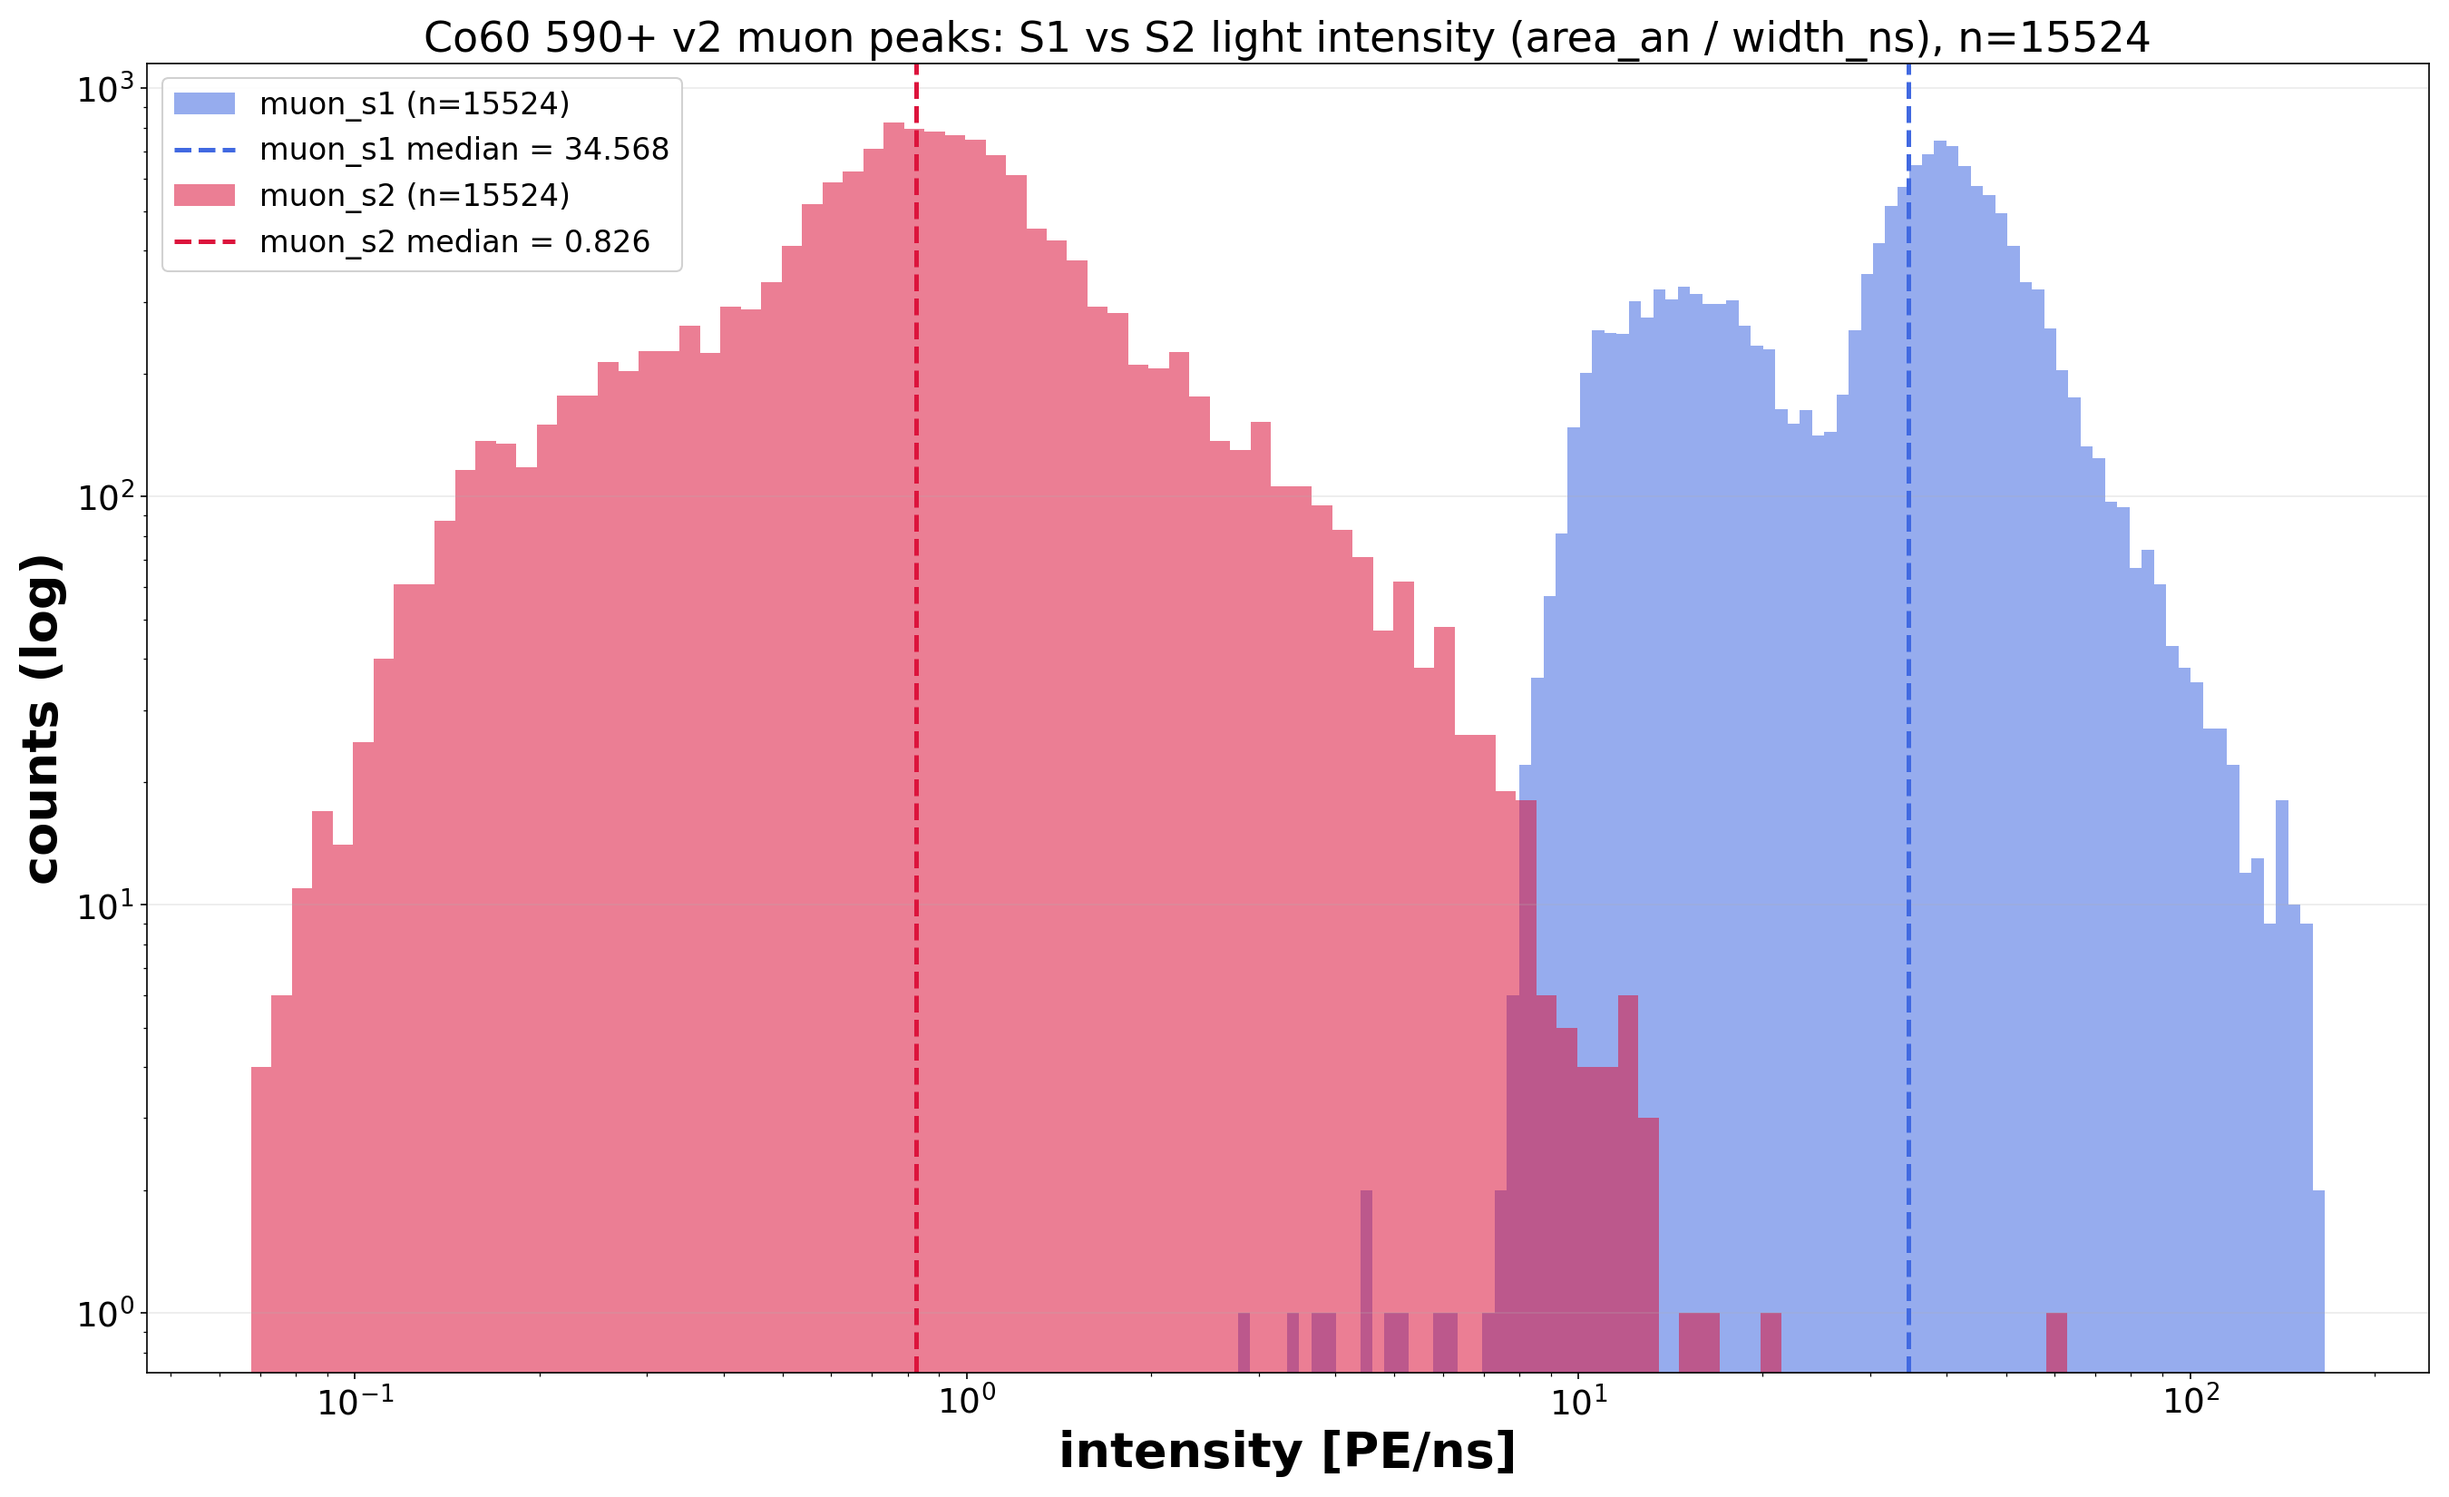
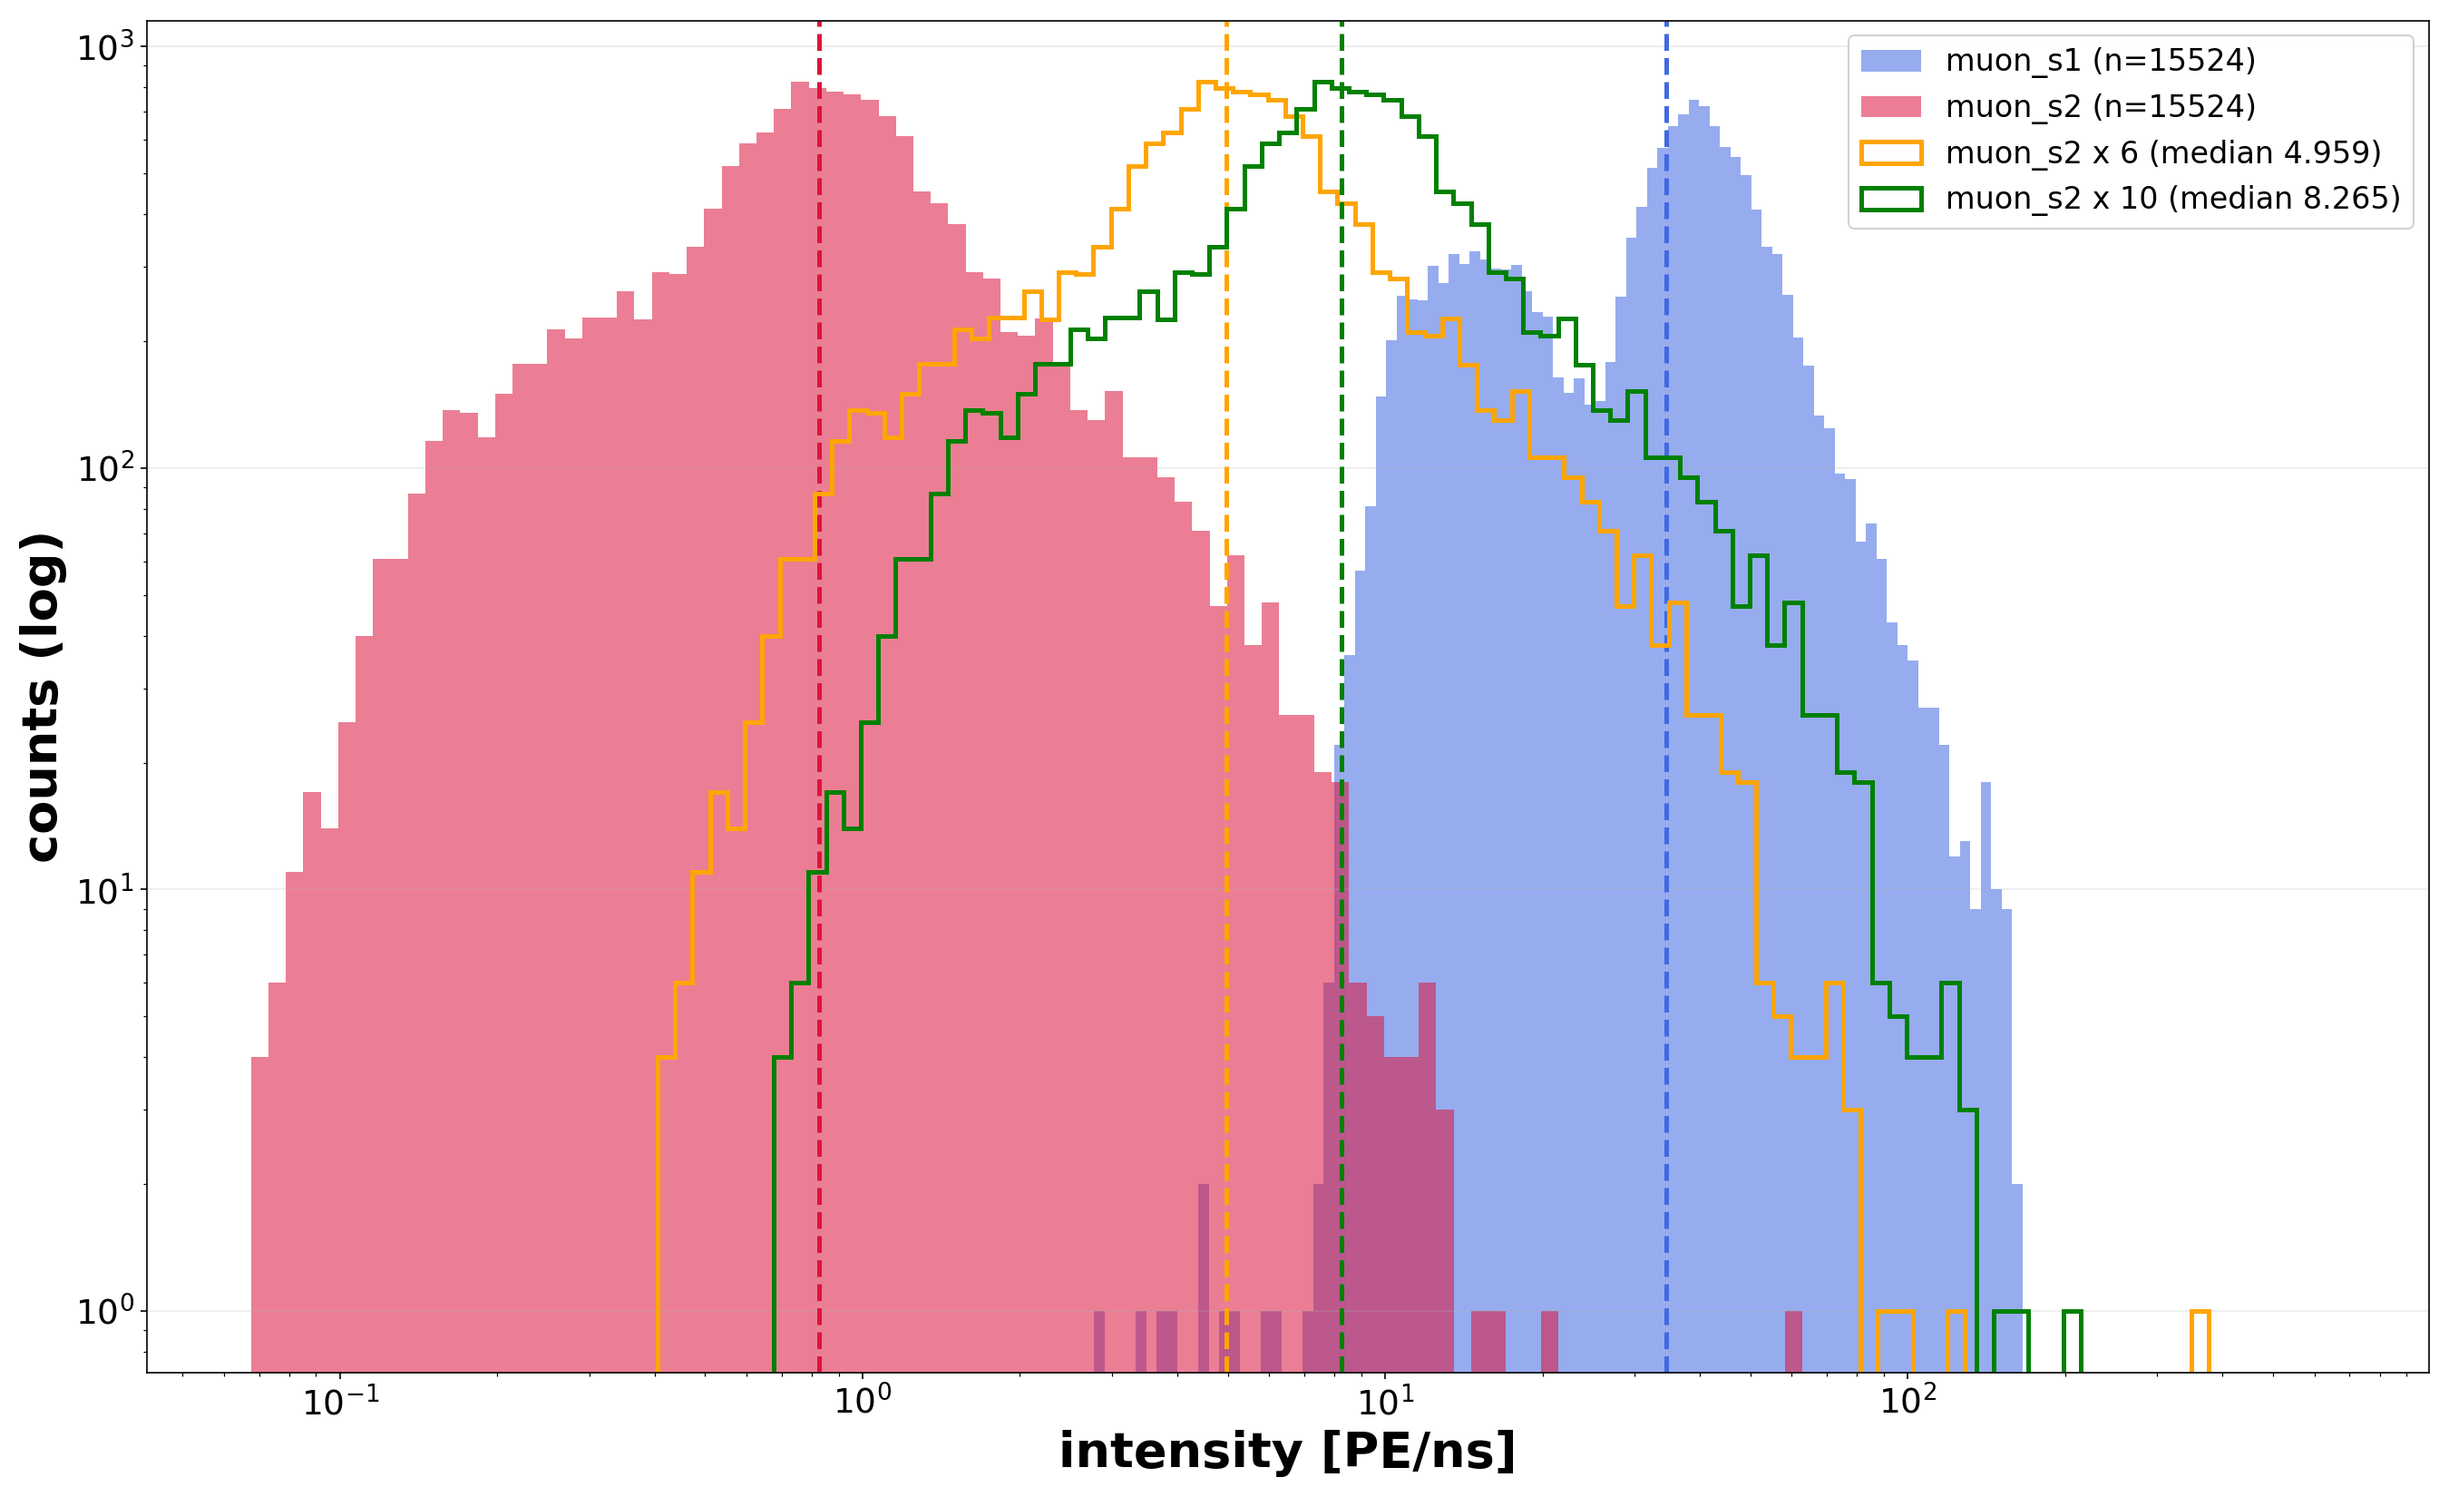
S1/S2 intensity: drop title; add step-curve muon_s2 x6 and x10 overlays

diff --git a/scripts/plot_muon_s1s2_params.py b/scripts/plot_muon_s1s2_params.py
@@ -121,19 +121,29 @@ intensity = [
     ("muon_s2", "muon_s2_area_an", "muon_s2_width_ns", "crimson"),
 ]
 fig, ax = plt.subplots(figsize=(18, 11))
-for lbl, ac, wc, color in intensity:
-    v = (m[ac] / m[wc]).replace([np.inf, -np.inf], np.nan).dropna()
-    v = v[v > 0]
+s1_int = (m["muon_s1_area_an"] / m["muon_s1_width_ns"])
+s1_int = s1_int.replace([np.inf, -np.inf], np.nan).dropna()
+s1_int = s1_int[s1_int > 0]
+s2_int = (m["muon_s2_area_an"] / m["muon_s2_width_ns"])
+s2_int = s2_int.replace([np.inf, -np.inf], np.nan).dropna()
+s2_int = s2_int[s2_int > 0]
+curves = [
+    (s1_int, "royalblue", f"muon_s1 (n={len(s1_int)})", "stepfilled", 0.55),
+    (s2_int, "crimson", f"muon_s2 (n={len(s2_int)})", "stepfilled", 0.55),
+    (s2_int * 6.0, "orange", f"muon_s2 x 6 (median {s2_int.median()*6:.3f})",
+     "step", 1.0),
+    (s2_int * 10.0, "green", f"muon_s2 x 10 (median {s2_int.median()*10:.3f})",
+     "step", 1.0),
+]
+for v, color, lab, htype, alpha in curves:
     bins = np.logspace(np.log10(v.min()), np.log10(v.max()), 90)
-    ax.hist(v, bins=bins, color=color, alpha=0.55, label=f"{lbl} (n={len(v)})")
-    ax.axvline(v.median(), color=color, ls="--", lw=2.4,
-               label=f"{lbl} median = {v.median():.3f}")
+    ax.hist(v, bins=bins, color=color, alpha=alpha, histtype=htype, lw=2.4,
+            label=lab)
+    ax.axvline(v.median(), color=color, ls="--", lw=2.4)
 ax.set_xscale("log")
 ax.set_yscale("log")
 ax.set_xlabel("intensity [PE/ns]")
 ax.set_ylabel("counts (log)")
-ax.set_title(f"Co60 590+ v2 muon peaks: S1 vs S2 light intensity "
-             f"(area_an / width_ns), n={len(m)}")
 ax.grid(True, axis="y", alpha=0.25)
 ax.legend(framealpha=0.9)
 fig.tight_layout()
